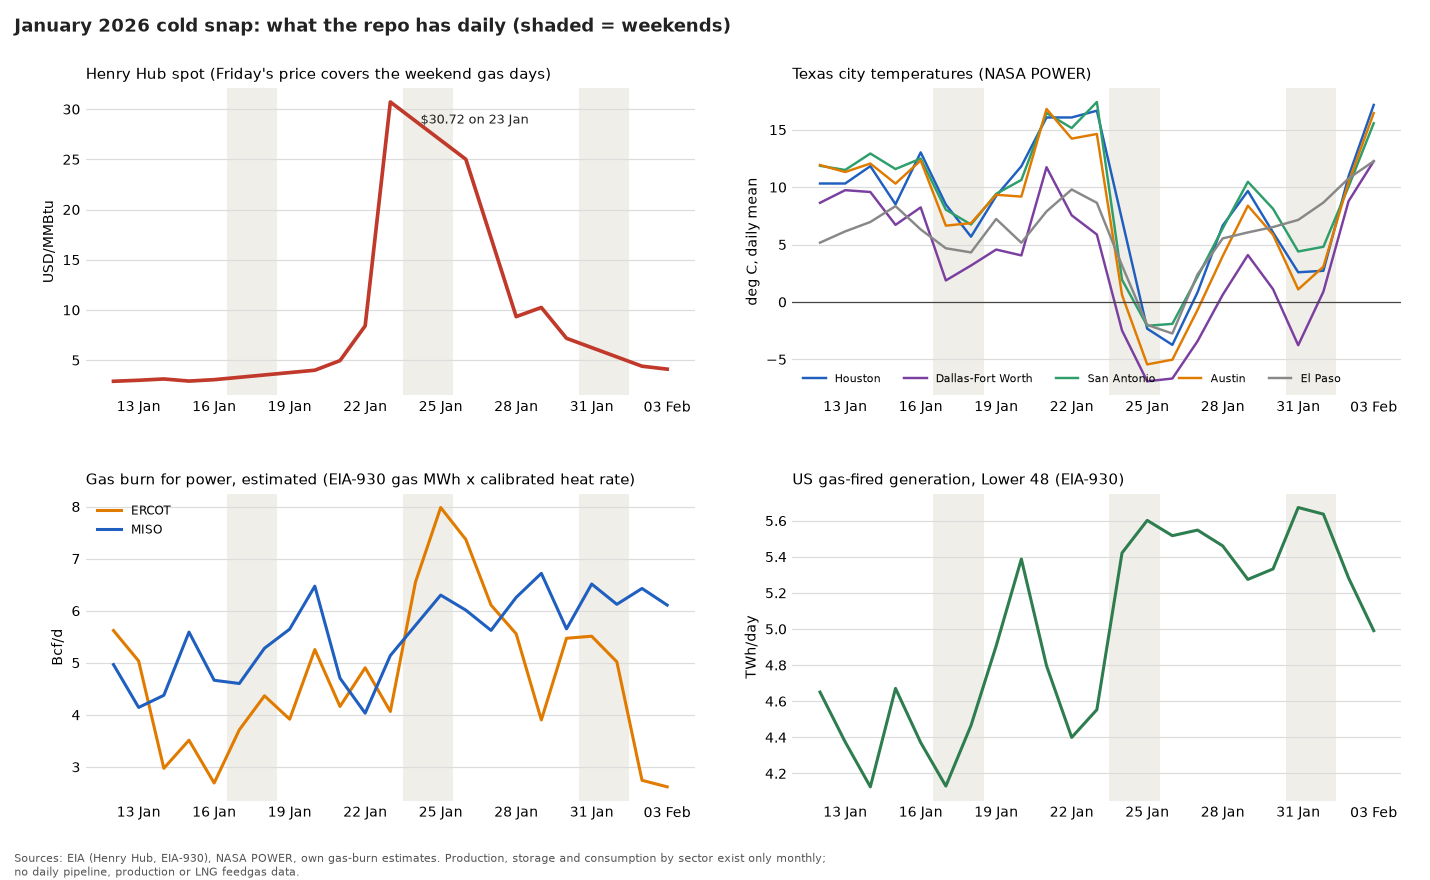
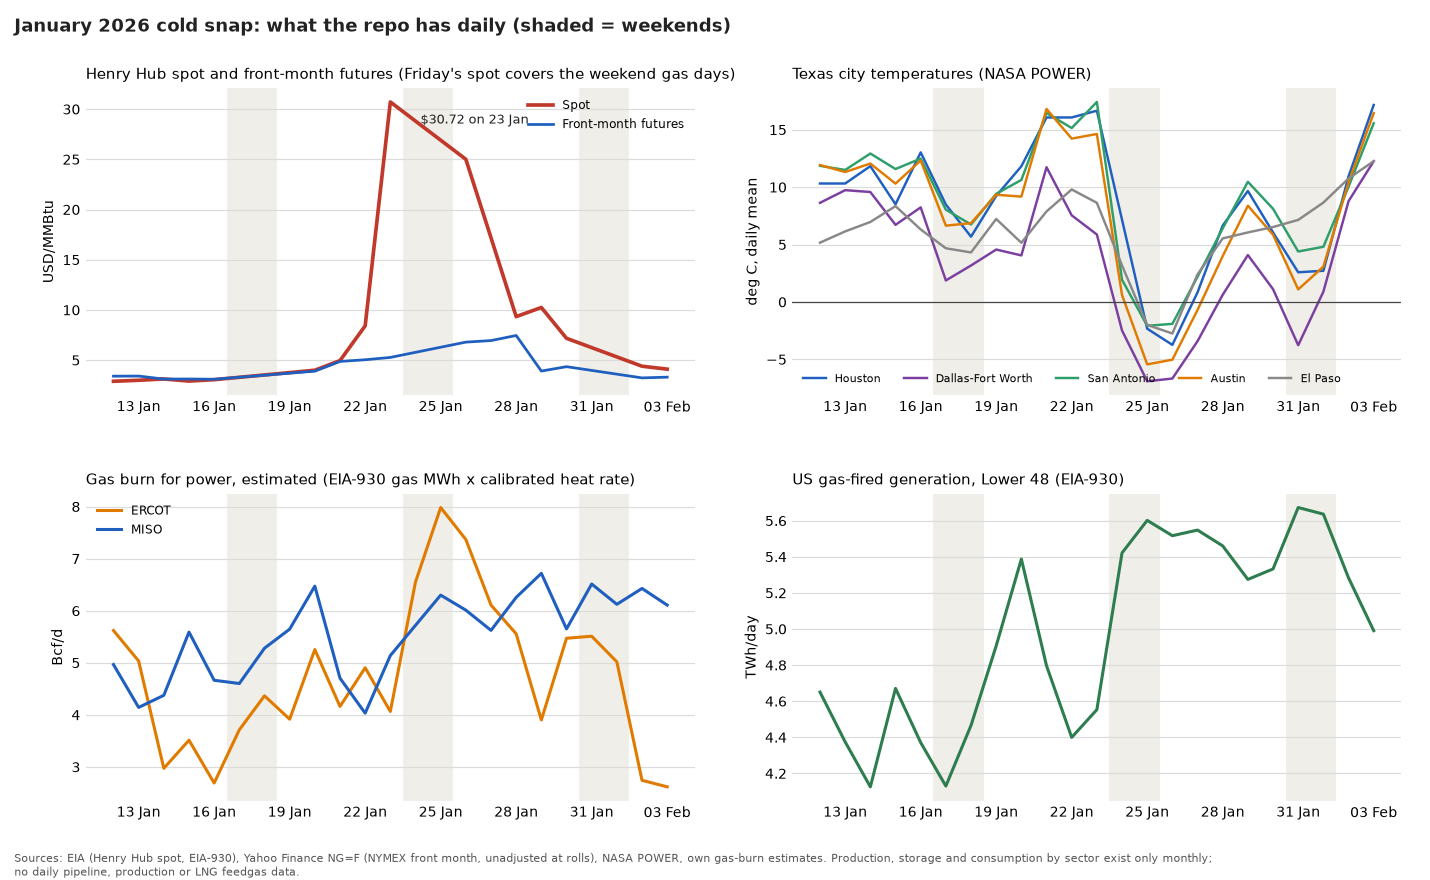
Gulf daily charts: add front-month Henry Hub futures to the price panel
Claude-Session: https://claude.ai/code/session_017JZ6NtiEGTPcCx8fG8R1Sb

diff --git a/americas/GULF_JAN2026_DAILY.py b/americas/GULF_JAN2026_DAILY.py
@@ -61,12 +61,17 @@ def main():
             if d.weekday() >= 5:
                 ax.axvspan(d - pd.Timedelta(hours=12), d + pd.Timedelta(hours=12), color="#f0eee8", lw=0, zorder=0)
     h = hh.loc[s:e]
-    axs[0].plot(h.index, h.values, color="#C0392B", lw=2.4)
+    axs[0].plot(h.index, h.values, color="#C0392B", lw=2.4, label="Spot")
+    fm_path = os.path.join(ROOT, "discovery_archive", "results", "henry_hub", "hh_front_month_daily.csv")
+    if os.path.exists(fm_path):
+        fm = pd.read_csv(fm_path, parse_dates=["date"]).set_index("date")["HH_front_month_USD_per_MMBtu"].loc[s:e]
+        axs[0].plot(fm.index, fm.values, color="#1F5FBF", lw=1.8, label="Front-month futures")
+        axs[0].legend(frameon=False, fontsize=8, loc="upper right")
     pk = h.idxmax()
     axs[0].annotate(f"${h.max():.2f} on {pk:%d %b}", (pk, h.max()), (pk + pd.Timedelta(days=1.2), h.max() * 0.93),
                     fontsize=8.5, color=ink)
     axs[0].set_ylabel("USD/MMBtu")
-    axs[0].set_title("Henry Hub spot (Friday's price covers the weekend gas days)", loc="left", fontsize=9.5)
+    axs[0].set_title("Henry Hub spot and front-month futures (Friday's spot covers the weekend gas days)", loc="left", fontsize=9.5)
     cols = ["#1F5FBF", "#7B3FA0", "#2E9E6B", "#E07B00", "#888888"]
     for c, col in zip(t.columns, cols):
         x = t[c].loc[s:e]
@@ -89,7 +94,7 @@ def main():
         ax.tick_params(labelbottom=True)
     fig.suptitle(a.title, x=0.01, ha="left",
                  fontsize=12, fontweight="bold", color=ink)
-    fig.text(0.01, 0.005, "Sources: EIA (Henry Hub, EIA-930), NASA POWER, own gas-burn estimates. Production, storage and "
+    fig.text(0.01, 0.005, "Sources: EIA (Henry Hub spot, EIA-930), Yahoo Finance NG=F (NYMEX front month, unadjusted at rolls), NASA POWER, own gas-burn estimates. Production, storage and "
              "consumption by sector exist only monthly;\nno daily pipeline, production or LNG feedgas data.",
              fontsize=7, color="#555")
     fig.subplots_adjust(left=0.06, right=0.98, top=0.9, bottom=0.09, hspace=0.32, wspace=0.16)

diff --git a/output/Python Scripts/GULF_JAN2026_DAILY.py b/output/Python Scripts/GULF_JAN2026_DAILY.py
@@ -61,12 +61,17 @@ def main():
             if d.weekday() >= 5:
                 ax.axvspan(d - pd.Timedelta(hours=12), d + pd.Timedelta(hours=12), color="#f0eee8", lw=0, zorder=0)
     h = hh.loc[s:e]
-    axs[0].plot(h.index, h.values, color="#C0392B", lw=2.4)
+    axs[0].plot(h.index, h.values, color="#C0392B", lw=2.4, label="Spot")
+    fm_path = os.path.join(ROOT, "discovery_archive", "results", "henry_hub", "hh_front_month_daily.csv")
+    if os.path.exists(fm_path):
+        fm = pd.read_csv(fm_path, parse_dates=["date"]).set_index("date")["HH_front_month_USD_per_MMBtu"].loc[s:e]
+        axs[0].plot(fm.index, fm.values, color="#1F5FBF", lw=1.8, label="Front-month futures")
+        axs[0].legend(frameon=False, fontsize=8, loc="upper right")
     pk = h.idxmax()
     axs[0].annotate(f"${h.max():.2f} on {pk:%d %b}", (pk, h.max()), (pk + pd.Timedelta(days=1.2), h.max() * 0.93),
                     fontsize=8.5, color=ink)
     axs[0].set_ylabel("USD/MMBtu")
-    axs[0].set_title("Henry Hub spot (Friday's price covers the weekend gas days)", loc="left", fontsize=9.5)
+    axs[0].set_title("Henry Hub spot and front-month futures (Friday's spot covers the weekend gas days)", loc="left", fontsize=9.5)
     cols = ["#1F5FBF", "#7B3FA0", "#2E9E6B", "#E07B00", "#888888"]
     for c, col in zip(t.columns, cols):
         x = t[c].loc[s:e]
@@ -89,7 +94,7 @@ def main():
         ax.tick_params(labelbottom=True)
     fig.suptitle(a.title, x=0.01, ha="left",
                  fontsize=12, fontweight="bold", color=ink)
-    fig.text(0.01, 0.005, "Sources: EIA (Henry Hub, EIA-930), NASA POWER, own gas-burn estimates. Production, storage and "
+    fig.text(0.01, 0.005, "Sources: EIA (Henry Hub spot, EIA-930), Yahoo Finance NG=F (NYMEX front month, unadjusted at rolls), NASA POWER, own gas-burn estimates. Production, storage and "
              "consumption by sector exist only monthly;\nno daily pipeline, production or LNG feedgas data.",
              fontsize=7, color="#555")
     fig.subplots_adjust(left=0.06, right=0.98, top=0.9, bottom=0.09, hspace=0.32, wspace=0.16)
